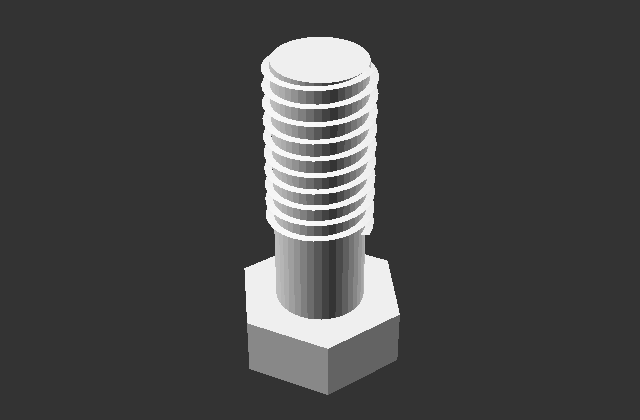
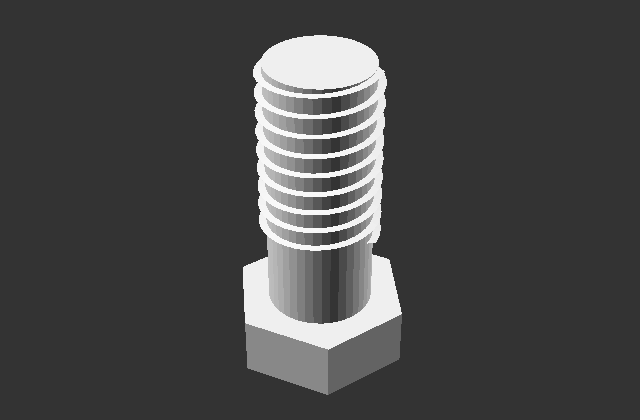
Curate start examples and clean helper defaults

Changed region(s): [[0.375, 0.0929, 0.625, 0.7738], [0.4688, 0.0619, 0.5312, 0.0929], [0.375, 0.7429, 0.4062, 0.8048]]

diff --git a/src/forge3d/start-catalog.js b/src/forge3d/start-catalog.js
@@ -1,5 +1,7 @@
 import chessPawnCode from './start-catalog/scad/examples/chess_pawn.scad?raw';
+import impossibleRingCode from './start-catalog/scad/examples/impossible_ring_showcase.scad?raw';
 import magneticLettersCode from './start-catalog/scad/examples/magnetic_letters_pro.scad?raw';
+import quadsCode from './start-catalog/scad/examples/quads_relief_showcase.scad?raw';
 import cubeStarterCode from './start-catalog/scad/learning/cube_starter.scad?raw';
 import offsetProfileCode from './start-catalog/scad/learning/offset_profile.scad?raw';
 import projectEnclosureCode from './start-catalog/scad/helpers/project_enclosure.scad?raw';
@@ -7,8 +9,6 @@ import insertBossPlateCode from './start-catalog/scad/helpers/insert_boss_plate.
 import screwHoleSamplerCode from './start-catalog/scad/helpers/screw_hole_sampler.scad?raw';
 import threadedBoltCode from './start-catalog/scad/helpers/threaded_bolt.scad?raw';
 import threadedHoleTestCode from './start-catalog/scad/helpers/threaded_hole_test.scad?raw';
-import impossibleRingCode from './start-catalog/scad/vendored/jeffbarr/impossible_ring.scad?raw';
-import quadsCode from './start-catalog/scad/vendored/jeffbarr/quads.scad?raw';
 import talonsCode from './start-catalog/scad/vendored/jeffbarr/talons.scad?raw';
 import magneticLettersPreview from './start-catalog/previews/example-magnetic-letters.png';
 import chessPawnPreview from './start-catalog/previews/example-chess-pawn.png';
@@ -67,9 +67,9 @@ export const START_CATALOG = [
     section: 'examples',
     kind: 'example',
     name: 'Impossible Ring',
-    summary: 'Hand-crafted impossible ring sculpture from Jeff Barr’s MIT collection.',
-    tags: ['sculpture', 'illusion', 'vendored'],
-    sourceType: 'vendored',
+    summary: 'A fast, layered impossible-ring study tuned for Forge3D, inspired by Jeff Barr’s MIT collection.',
+    tags: ['sculpture', 'illusion', 'curated'],
+    sourceType: 'builtin',
     primaryAction: 'openExample',
     code: impossibleRingCode,
     previewImage: impossibleRingPreview,
@@ -81,9 +81,9 @@ export const START_CATALOG = [
     section: 'examples',
     kind: 'example',
     name: 'Quads Relief',
-    summary: 'A perturbation-driven relief pattern from Jeff Barr’s MIT collection.',
-    tags: ['pattern', 'surface', 'vendored'],
-    sourceType: 'vendored',
+    summary: 'A clean tapered quad field with deterministic relief, adapted from Jeff Barr’s MIT collection.',
+    tags: ['pattern', 'surface', 'relief'],
+    sourceType: 'builtin',
     primaryAction: 'openExample',
     code: quadsCode,
     previewImage: quadsPreview,
@@ -95,7 +95,7 @@ export const START_CATALOG = [
     section: 'examples',
     kind: 'example',
     name: 'Talon Array',
-    summary: 'A dramatic ring/grid talon study from Jeff Barr’s MIT collection.',
+    summary: 'A dramatic talon study with grid and ring layout modes from Jeff Barr’s MIT collection.',
     tags: ['talons', 'pattern', 'vendored'],
     sourceType: 'vendored',
     primaryAction: 'openExample',
